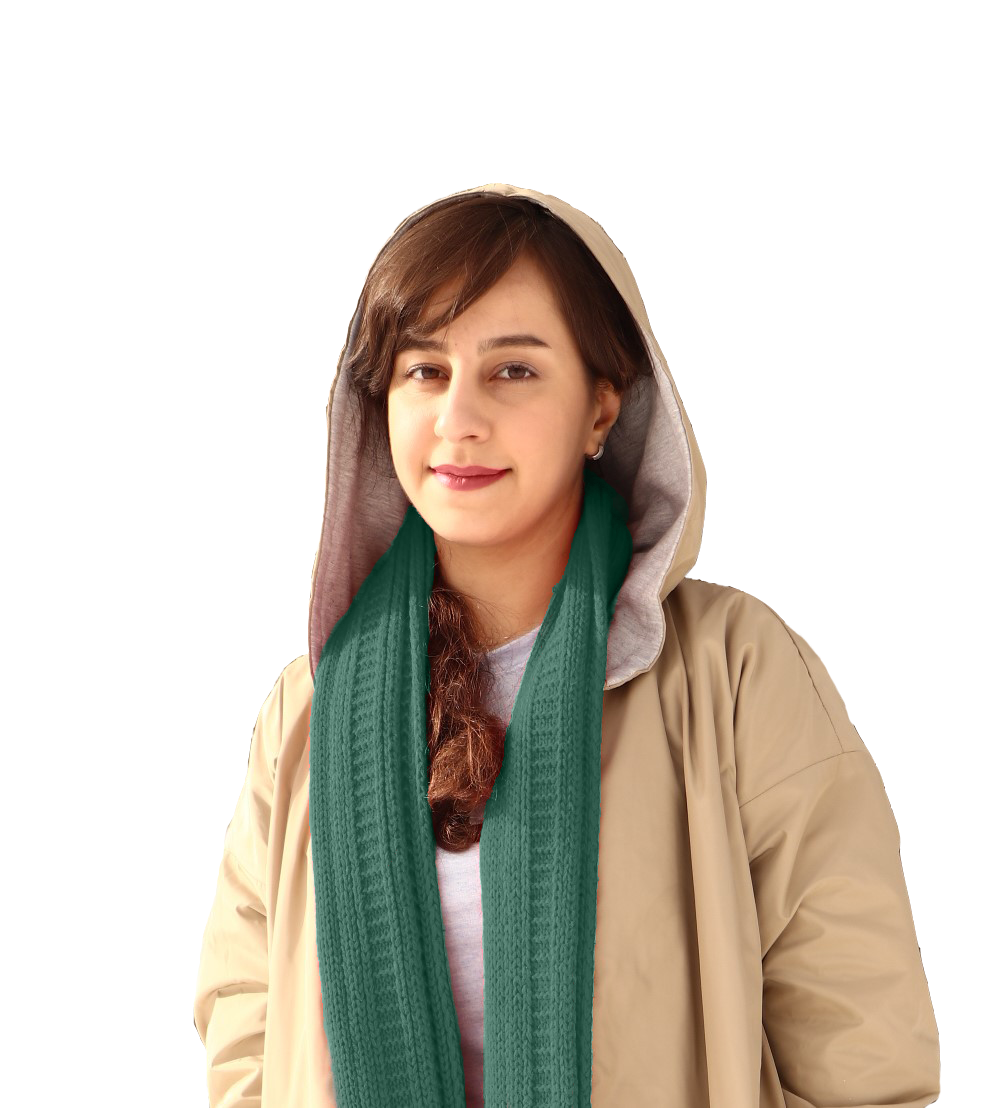
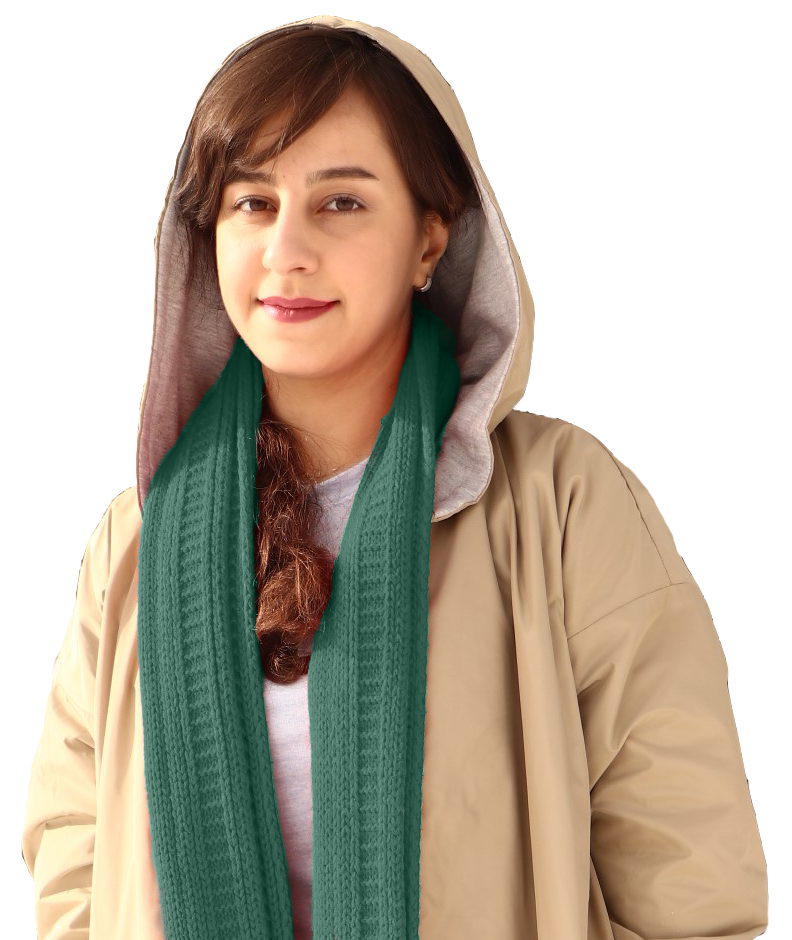
homepage styles completed

diff --git a/index.html b/index.html
@@ -18,7 +18,7 @@
     ></script>
 
     <link
-      href="https://fonts.googleapis.com/css2?family=Zilla+Slab&display=swap"
+      href="https://fonts.googleapis.com/css2?family=Zilla+Slab:wght@400;500;700&display=swap"
       rel="stylesheet"
     />
     <script
@@ -68,24 +68,26 @@
         </div>
       </div>
     </nav>
-    <section class="home-page d-flex">
+    <div class="home-page d-lg-flex flex-row justify-content-between">
       <div class="home-content">
-        <h1>Hi, I'm Baharak Bakhtiari.</h1>
-        <h2>I'm a <span>front-end</span> web developer.</h2>
-        <div>
-          Lorem ipsum dolor sit amet consectetur adipisicing elit. Harum, nulla
-          unde ut aliquam impedit officiis culpa voluptates corporis accusantium
-          possimus.
+        <h1>Baharak Bakhtiari</h1>
+        <h2>
+          Building <br />
+          websites <span>experience</span>
+        </h2>
+        <div class="description">
+          A professional & imaginative front-end developer from&nbspIran. <br />
+          Loves to add clarity to complicated concepts.
         </div>
-        <button>contact me</button>
+        <button class="rounded-pill">contact me</button>
       </div>
       <div class="my-photo">
         <img
-          class="img-fluid mx-auto d-block"
+          class="img-fluid d-none d-lg-block"
           src="/images/me.png"
           alt="my-photo"
         />
       </div>
-    </section>
+    </div>
   </body>
 </html>

diff --git a/src/style.css b/src/style.css
@@ -83,29 +83,60 @@ body {
 }
 
 .home-page {
-  background-color: var(--main-bg);
-  height: 100vh;
-  padding-top: 5rem;
-  gap: 0;
-}
-
-.my-photo {
   background-color: var(--primary-bg);
-  margin: 3.5rem 3.5rem 3.5rem 0;
-  padding: 5rem;
-}
-
-.my-photo img {
-  max-width: 520px;
-  
+  height: 33.25rem;
+  margin: 10rem 5rem;
 }
 
 .home-content {
   color: var(--main-text);
-  background-color: var(--primary-bg);
   align-content: center;
-  margin: 3.5rem 0 3.5rem 3.5rem;
-  padding: 5rem;
+  margin: auto;
+  padding: 2rem 0 2rem 2.5rem;
+}
+
+h1 {
+  font-size: 1.6rem;
+  text-transform: capitalize;
+  margin-bottom: 1rem;
+  font-weight: 500;
+}
+
+h2 {
+  font-size: 4rem;
+  font-weight: 900;
+  color: var(--highlight-color);
+  line-height: 4rem;
+  margin-bottom: 1rem;
+}
+
+h2 span {
+  color: var(--main-text);
+}
+
+.description {
+  font-size: 1.2rem;
+  color: rgb(136, 128, 128);
+  margin-bottom: 1.35rem;
+}
+
+.home-content button {
+  background-color: var(--main-text);
+  color: var(--highlight-color);
+  padding: 0.5rem 1.5rem;
+  font-size: 1.2rem;
+}
+
+.my-photo {
+  margin: 3.5rem 3.5rem 3.5rem 0;
+  padding-right: 2.5rem;
+  display: flex;
+  align-items: flex-start;
+  height: fit-content;
+}
+
+.my-photo img {
+  max-width: 400px;
 }
 
 @media (max-width: 991px) {
